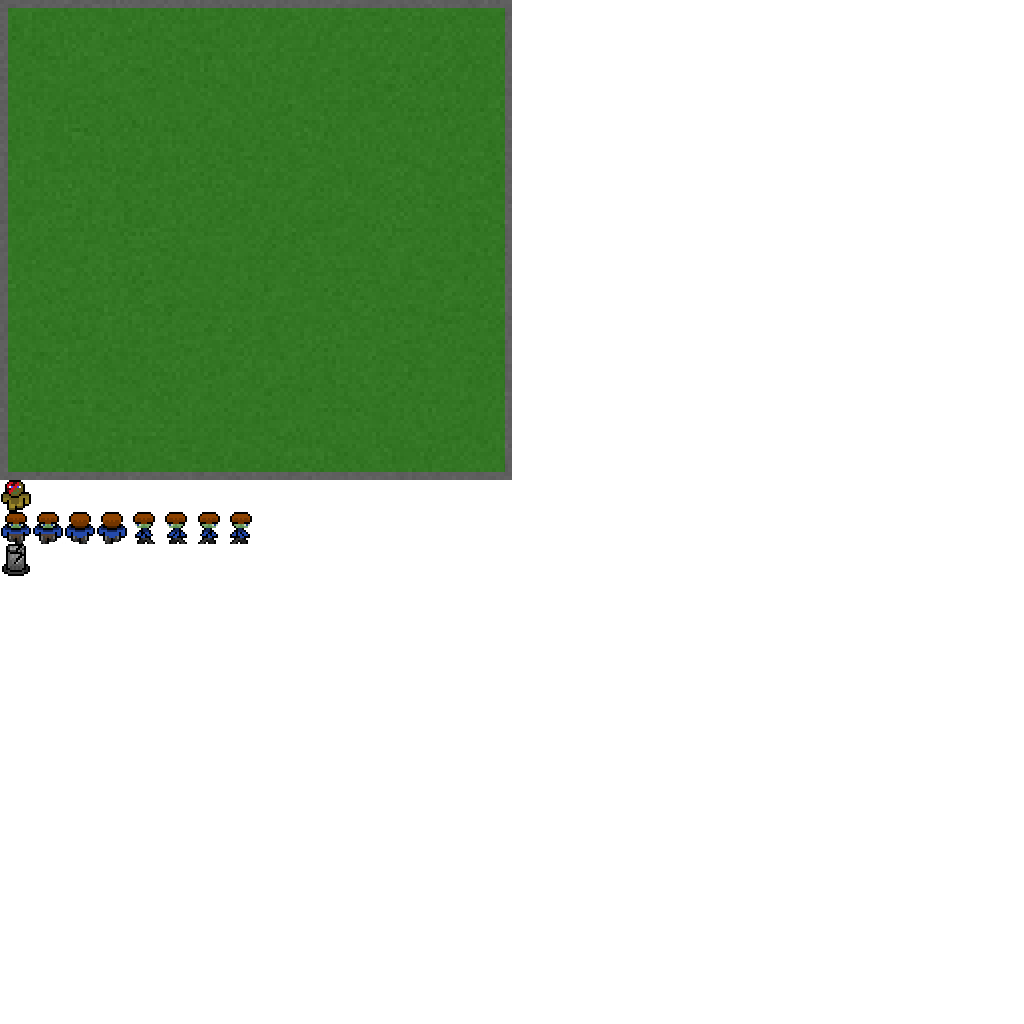
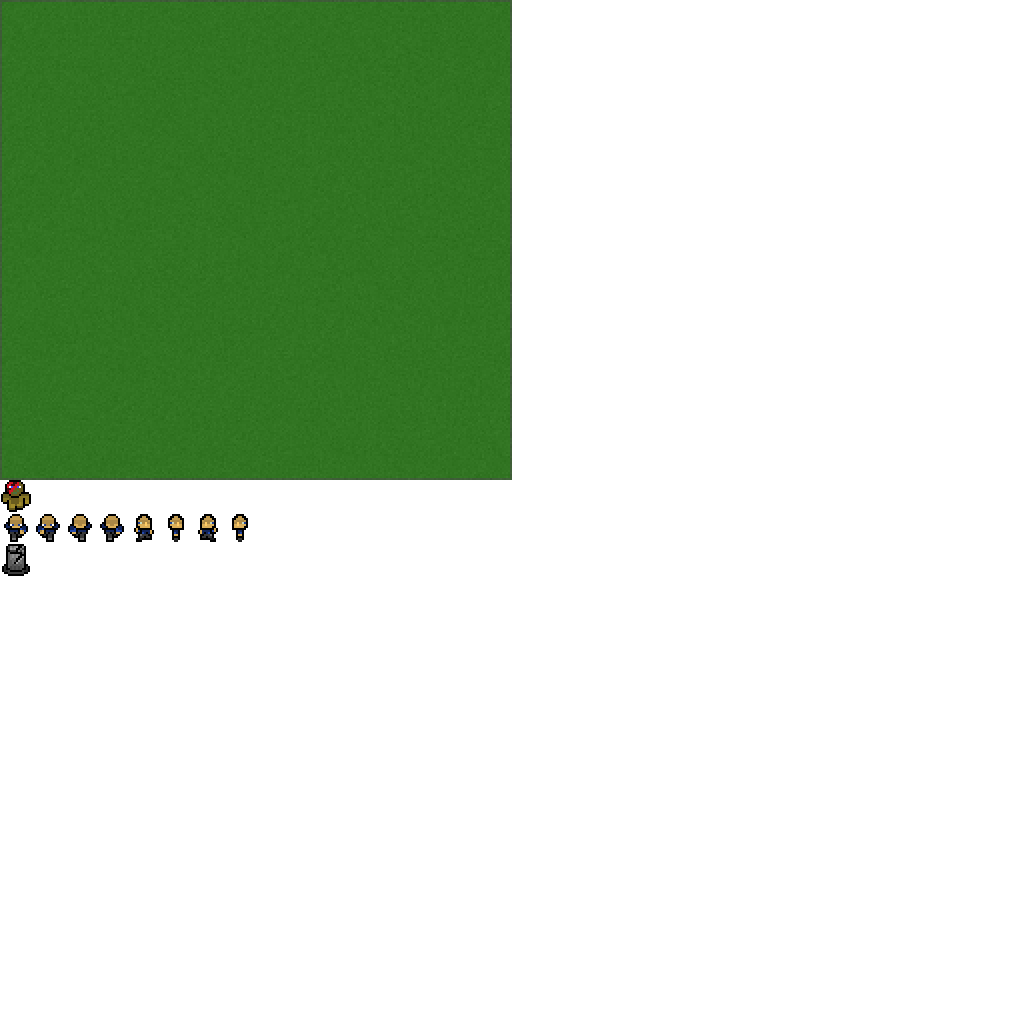
drastically improve the quality of the hero sprite

Changed region(s): [[0.0, 0.0, 0.5, 0.4688], [0.0, 0.5, 0.25, 0.5312]]

diff --git a/public/app.js b/public/app.js
@@ -388,15 +388,15 @@
 
     Hero.prototype.sw = 32;
 
-    Hero.prototype.sh = 32;
+    Hero.prototype.sh = 30;
 
     Hero.prototype.dw = 32;
 
-    Hero.prototype.dh = 32;
+    Hero.prototype.dh = 30;
 
     Hero.prototype.speed = 256;
 
-    Hero.prototype.sy = 512;
+    Hero.prototype.sy = 513;
 
     Hero.prototype.direction = 0;
 
